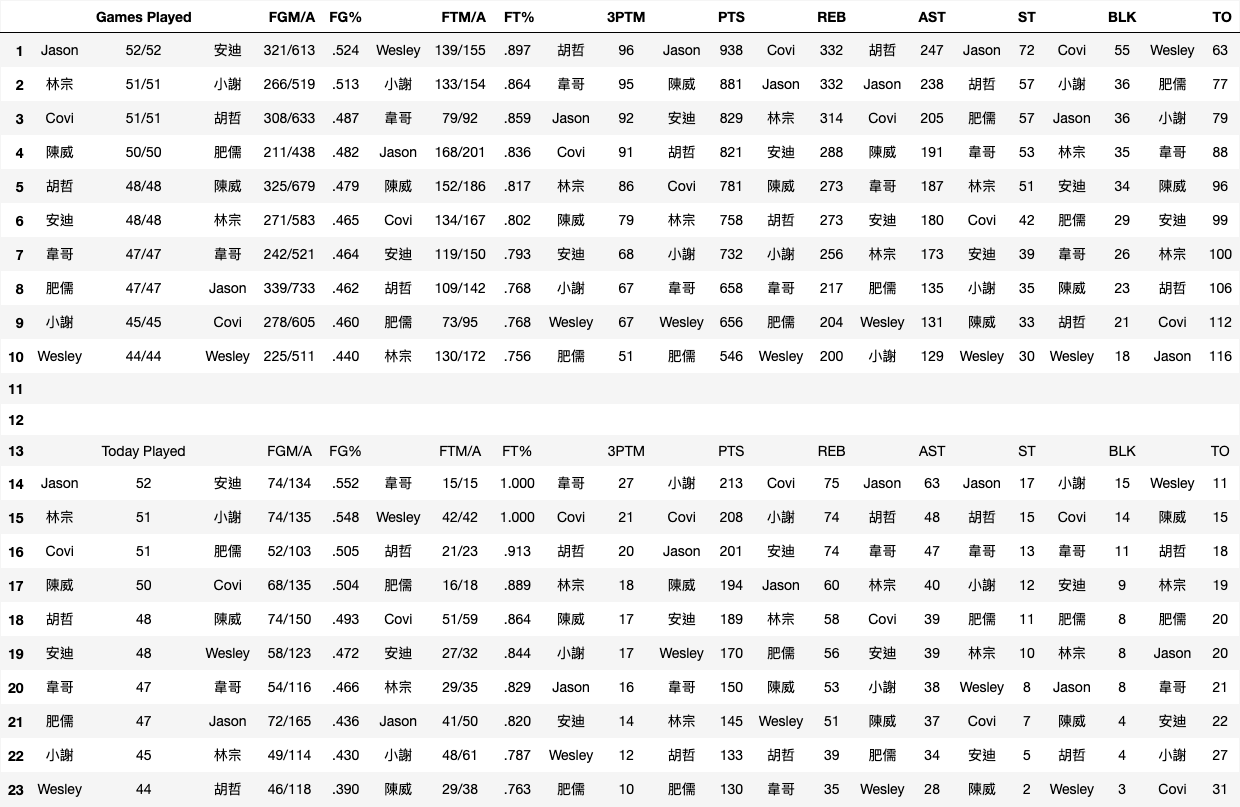
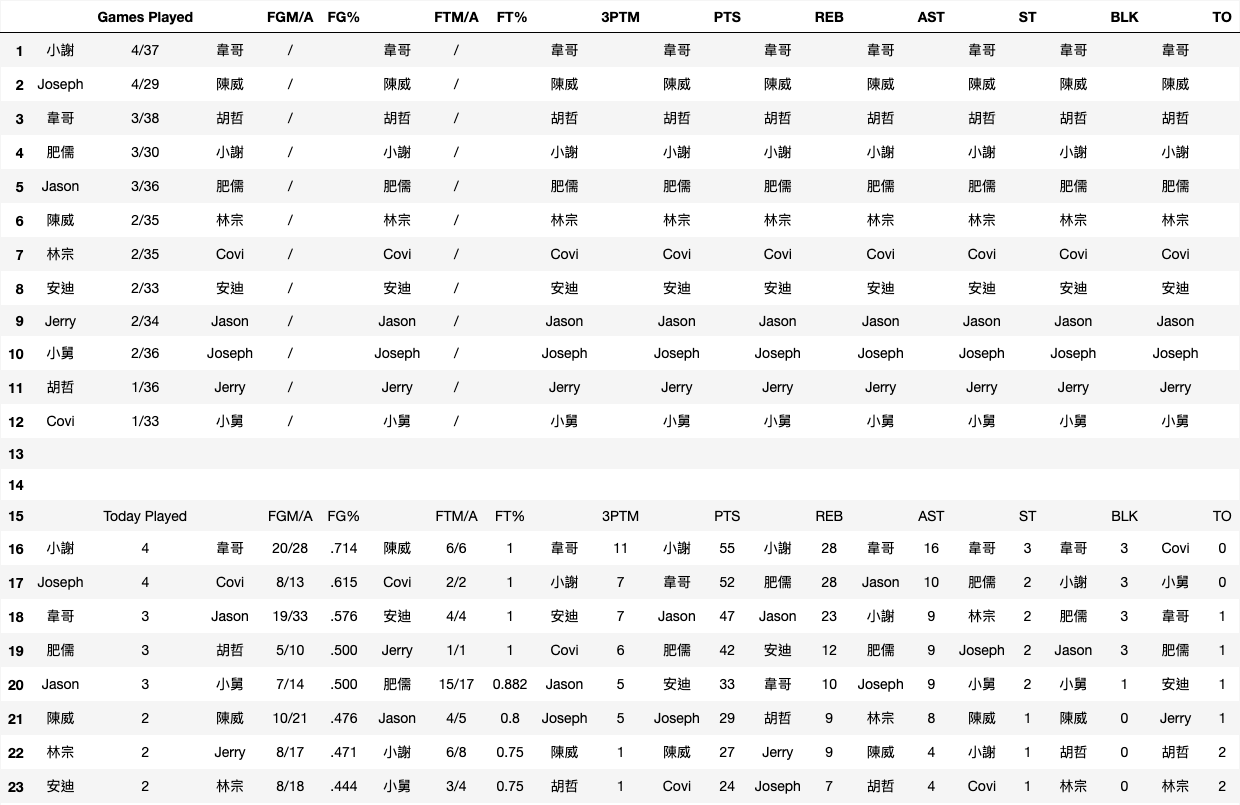
feat : update info of league

diff --git a/linebot.py b/linebot.py
@@ -10,6 +10,7 @@ import time
 import threading
 import print_data
 
+season_is_finished = False
 app = FastAPI()
 script_directory = os.path.dirname(os.path.abspath(__file__))
 im = pyimgur.Imgur("22cca6882f4dfe8")
@@ -52,6 +53,11 @@ def async_img_link():
             json.dump(imgData, w)
     return link
 
+def get_current_img_link():
+    with open(f"{script_directory}/config/img_data.json", 'r', encoding='utf-8') as r:
+        imgData = json.load(r)
+        return imgData['imgurl']
+
 def job():
     print_data.main()
 
@@ -63,9 +69,36 @@ def run_schedule():
         schedule.run_pending()
         time.sleep(300)
 
-schedule_thread = threading.Thread(target=run_schedule)
-schedule_thread.daemon = True  # 設置為守護線程，使其在主程序退出時自動終止
-schedule_thread.start()
+def time_until_target():
+    # 設定未來的時間點，例如 "10/07 22:00"
+    future_time_str = "10/23 00:00"
+
+    # 取得當前年份，並將未來的時間點轉換為 datetime 對象
+    current_year = datetime.now().year
+    future_time = datetime.strptime(f"{current_year}/{future_time_str}", "%Y/%m/%d %H:%M")
+
+    # 取得當前時間
+    now = datetime.now()
+
+    # 計算剩餘時間
+    remaining_time = future_time - now
+
+    # 如果指定的時間已經過去，返回0時間
+    if remaining_time.total_seconds() < 0:
+        remaining_time = timedelta(0)
+
+    # 格式化為 dd hh:mm:ss
+    days = remaining_time.days
+    hours, remainder = divmod(remaining_time.seconds, 3600)
+    minutes, seconds = divmod(remainder, 60)
+
+    return f"距離開打 \n倒數 {days:02d}天 {hours:02d}小時 {minutes:02d}分 {seconds:02d}秒"
+
+if not season_is_finished:
+    schedule_thread = threading.Thread(target=run_schedule)
+    schedule_thread.daemon = True  # 設置為守護線程，使其在主程序退出時自動終止
+    schedule_thread.start()
+
 
 import local_server
 
@@ -78,26 +111,33 @@ async def webhook(request: Request):
     req = await request.json()
     print(req)
     inputText = req['queryResult']['queryText']              # 取得使用者輸入文字
-    reText = req['queryResult']['fulfillmentText']          # 取得 Dialogflow 的回應文字
+    # reText = req['queryResult']['fulfillmentText']          # 取得 Dialogflow 的回應文字
     intent = req['queryResult']['intent']['displayName']    # 取得 intent 分類
     replytoken = req['originalDetectIntentRequest']['payload']['data']['replyToken']  # 取得 LINE replyToken
[1 lines of base64/hex data omitted]
     
     if intent=='Ranking':
         if inputText == '#戰績':
-            if is_time_between():
+            if season_is_finished:
+                return {
+                    "fulfillmentText": "球季開始了嗎?急什麼"
+                }
+            if is_time_between() and not season_is_finished:
                 return {
                     "fulfillmentText": f"請於{running_tiem}後再查詢排行榜"
                 }
-            link = async_img_link()
+            if season_is_finished:
+                link = get_current_img_link()
+            else:
+                link = async_img_link()
             headers = {'Authorization':'Bearer ' + token,'Content-Type':'application/json'}
             body = {
                 'replyToken':replytoken,
                 'messages':[
                     {
-                    'type': 'text',
-                    'text': '【Stinky Turtle League】戰績出來啦'
-                    },{
+                        'type': 'text',
+                        'text': '【Stinky Turtle League】戰績出來啦'
+                    }, {
                         'type': 'image',
                         'originalContentUrl': link,
                         'previewImageUrl': link
@@ -116,10 +156,61 @@ async def webhook(request: Request):
         return {
             "source": "webhookdata"
         }
+    if intent=='Bonus':
+        if inputText == '#獎金':
+            return {
+                "source": "webhookdata"
+            }
+        else:    
+            return {
+                "fulfillmentText": " ",
+                "source": ""
+            }
+    if intent=='Time':
+        if inputText == '#開季':
+            # img_url = req['queryResult']['fulfillmentMessages'][0]['image']['imageUri']
+            return {
+                "fulfillmentMessages": [
+                    {
+                        "text": {
+                            "text": [
+                                f"{time_until_target()}"
+                            ]
+                        }
+                    },
+                    # {
+                    #     "image": {
+                    #         "imageUri": img_url
+                    #     }
+                    # }
+                ],
+                "source": "webhookdata"
+            }
+        if intent=='Name':
+            if '#' in inputText:
+                img_url = req['queryResult']['fulfillmentMessages'][0]['image']['imageUri']
+                return {
+                    "fulfillmentMessages": [
+                        {
+                            "image": {
+                                "imageUri": img_url
+                            }
+                        }
+                    ],
+                    "source": "webhookdata"
+                }
+
+        else:    
+            return {
+                "fulfillmentText": " ",
+                "source": ""
+            }
+    
+        
     # 如果收到的 intent 不是 radar
-    else:
-        # 使用 Dialogflow 產生的回應訊息
-        return {
-            "fulfillmentText": f'{reText} ( webhook )'
-        }
+    # else:
+    #     # 使用 Dialogflow 產生的回應訊息
+    #     return {
+    #         "fulfillmentText": f'{reText} ( webhook )'
+    #     }
 uvicorn.run(app, port=local_server.port)

diff --git a/yfpy/yfpy/query.py b/yfpy/yfpy/query.py
@@ -2953,11 +2953,11 @@ class YahooFantasySportsQuery(object):
         res = ''
         if is_weekly:
           res = self.get_response(
-              f"https://fantasysports.yahooapis.com/fantasy/v2/team/428.l.186918.t.{team_key}/stats;type=week;week={week};"
+              f"https://fantasysports.yahooapis.com/fantasy/v2/team/454.l.992.t.{team_key}/stats;type=week;week={week};"
           ).text
         else:
           res = self.get_response(
-              f"https://fantasysports.yahooapis.com/fantasy/v2/team/428.l.186918.t.{team_key}/stats;type=date;date={week};"
+              f"https://fantasysports.yahooapis.com/fantasy/v2/team/454.l.992.t.{team_key}/stats;type=date;date={week};"
           ).text  
         data = json.loads(res)
         stats = data["fantasy_content"]["team"][1]["team_stats"]["stats"]
@@ -3009,14 +3009,14 @@ class YahooFantasySportsQuery(object):
         return result
 
     def get_all_data(self, week, is_weekly):
-        num_teams = 10
+        num_teams = 12
         result = {}
         # result['stat'] = parse_stat_id(hit)
         # result['teams'] = result.get('teams', [])
         for k in range(1, num_teams + 1):
           data = self.get_team_week_data(k, week, is_weekly) 
           
-          print(f"data2 {data}")
+          print(f"data2 {data} {week}")
           name = str(data['team_id'])
           keys = data.keys()
           for key in keys:
@@ -3029,16 +3029,17 @@ class YahooFantasySportsQuery(object):
           # stat = data['Games Played']
         keys = result.keys()
         for key in keys:
+         print(f"result {result[key]} {key}")
          if key == 'FGM/A' or key == 'FTM/A' or key == 'Today Played':
            continue
          elif key == 'Games Played':
            result[key] = dict(sorted(result[key].items(), key=lambda item: int(item[1].split('/')[0]), reverse=True))
          elif key == 'FG%' or key == 'FT%':
-           result[key] = dict(sorted(result[key].items(), key=lambda item: float(item[1]), reverse=True))
+             result[key] = dict(sorted(result[key].items(), key=lambda item: float(item[1]) if item[1] else 0.0, reverse=True))
          elif key == 'TO':
-           result[key] = dict(sorted(result[key].items(), key=lambda item: int(item[1]), reverse=False))
+           result[key] = dict(sorted(result[key].items(), key=lambda item: int(item[1]) if item[1] else 0, reverse=False))
          else:  
-           result[key] = dict(sorted(result[key].items(), key=lambda item: int(item[1]), reverse=True))
+           result[key] = dict(sorted(result[key].items(), key=lambda item: int(item[1]) if item[1] else 0, reverse=True))
            result['FGM/A'] = {k: result['FGM/A'][k] for k in result['FG%']}
            result['FTM/A'] = {k: result['FTM/A'][k] for k in result['FT%']}
         return result

diff --git a/yfpy/quickstart/quickstart.py b/yfpy/quickstart/quickstart.py
@@ -70,7 +70,7 @@ def get_season():
     # season = 2021
     # season = 2022
     # season = 2023
-    return league_setting.get('year')
+    return league_setting.get("year")
 
 
 season = get_season()
@@ -130,7 +130,7 @@ def get_game_id():
     # game_id = 399  # NFL - 2020
     # game_id = 406  # NFL - 2021
     # game_id = 414  # NFL - 2022 (divisions)
-    game_id = 428  # NFL - 2023
+    game_id = 454  # NFL - 2023
 
     # HOCKEY
     # game_id = 303  # NHL - 2012
@@ -159,7 +159,7 @@ def get_game_key():
     # game_key = "399"  # NFL - 2020
     # game_key = "406"  # NFL - 2021
     # game_key = "414"  # NFL - 2022 (divisions)
-    game_key = "428"  # NFL - 2023
+    game_key = "454"  # NFL - 2023
 
     # HOCKEY
     # game_key = "303"  # NHL - 2012
@@ -196,7 +196,7 @@ def get_league_id():
     # BASEBALL
     # league_id = "40134"  # MLB - 2021
 
-    return league_setting.get('league_id')
+    return league_setting.get("league_id")
 
 
 league_id = get_league_id()
@@ -358,7 +358,6 @@ def get_all_data(week, date):
     now = datetime.now()
     games_palyed_txt_name = f"played_for_{week}_week.txt"
     today_played_txt_name = f"today_player_{date}.txt"
-    print(f"data {data}")
     if now.hour >= 14 and now.hour < 24:
         result = {'Games Played': {}}
         if os.path.isfile(games_palyed_txt_name):
@@ -412,9 +411,8 @@ def get_today_all_data(date, week):
             data['Today Played'] = dict(sorted(today_played.items(), key=lambda item: int(item[1]), reverse=True))
     return data
 
-league_info = yahoo_query.get_league_info()
-
 def get_league_info():
+    league_info = yahoo_query.get_league_info()
     return league_info
 
 #{

diff --git a/start.py b/start.py
@@ -24,8 +24,8 @@ def send_notify(token, msg, filepath=None, stickerPackageId=None, stickerId=None
 # Test line notify
 
 # 臭烏龜聯賽
-token = "Ao7pCGAeIeLluPxy4mQGXv1jhK7tVY29Arc31QuG2Z7"
+# token = "Ao7pCGAeIeLluPxy4mQGXv1jhK7tVY29Arc31QuG2Z7"
 
-# 我要發大財
-token = "yrjISonW7S5g5F9xTjuLCs6cpimSdoiIQ8OmiNTaMec"
-send_notify(token=token, msg='戰績出來啦', filepath='dataframe_image.png', stickerPackageId='', stickerId='')
+# # 我要發大財
+# token = "yrjISonW7S5g5F9xTjuLCs6cpimSdoiIQ8OmiNTaMec"
+# send_notify(token=token, msg='戰績出來啦', filepath='dataframe_image.png', stickerPackageId='', stickerId='')

diff --git a/print_data.py b/print_data.py
@@ -67,8 +67,7 @@ def main():
         print("聯賽已結束")
         return
     week = league_info.current_week
-    today = league_info.end_date
-    # today = get_today()
+    today = get_today()
     print(f"第{week}週  第{today}天")
     week_data = get_all_data(week, today)
     today_data = get_today_data(today, week)

diff --git a/yfpy/google/sheet.py b/yfpy/google/sheet.py
@@ -40,6 +40,8 @@ def set_sheet_text_center(ws):
         cell.set_horizontal_alignment(pygsheets.custom_types.HorizontalAlignment.CENTER)
 
 def get_previous_week_name(week):
+    if week is 1:
+      return "第1週"
     # 從字符串中提取出數字 N
     match = re.search(r'\d+', week)
     if match is None:
